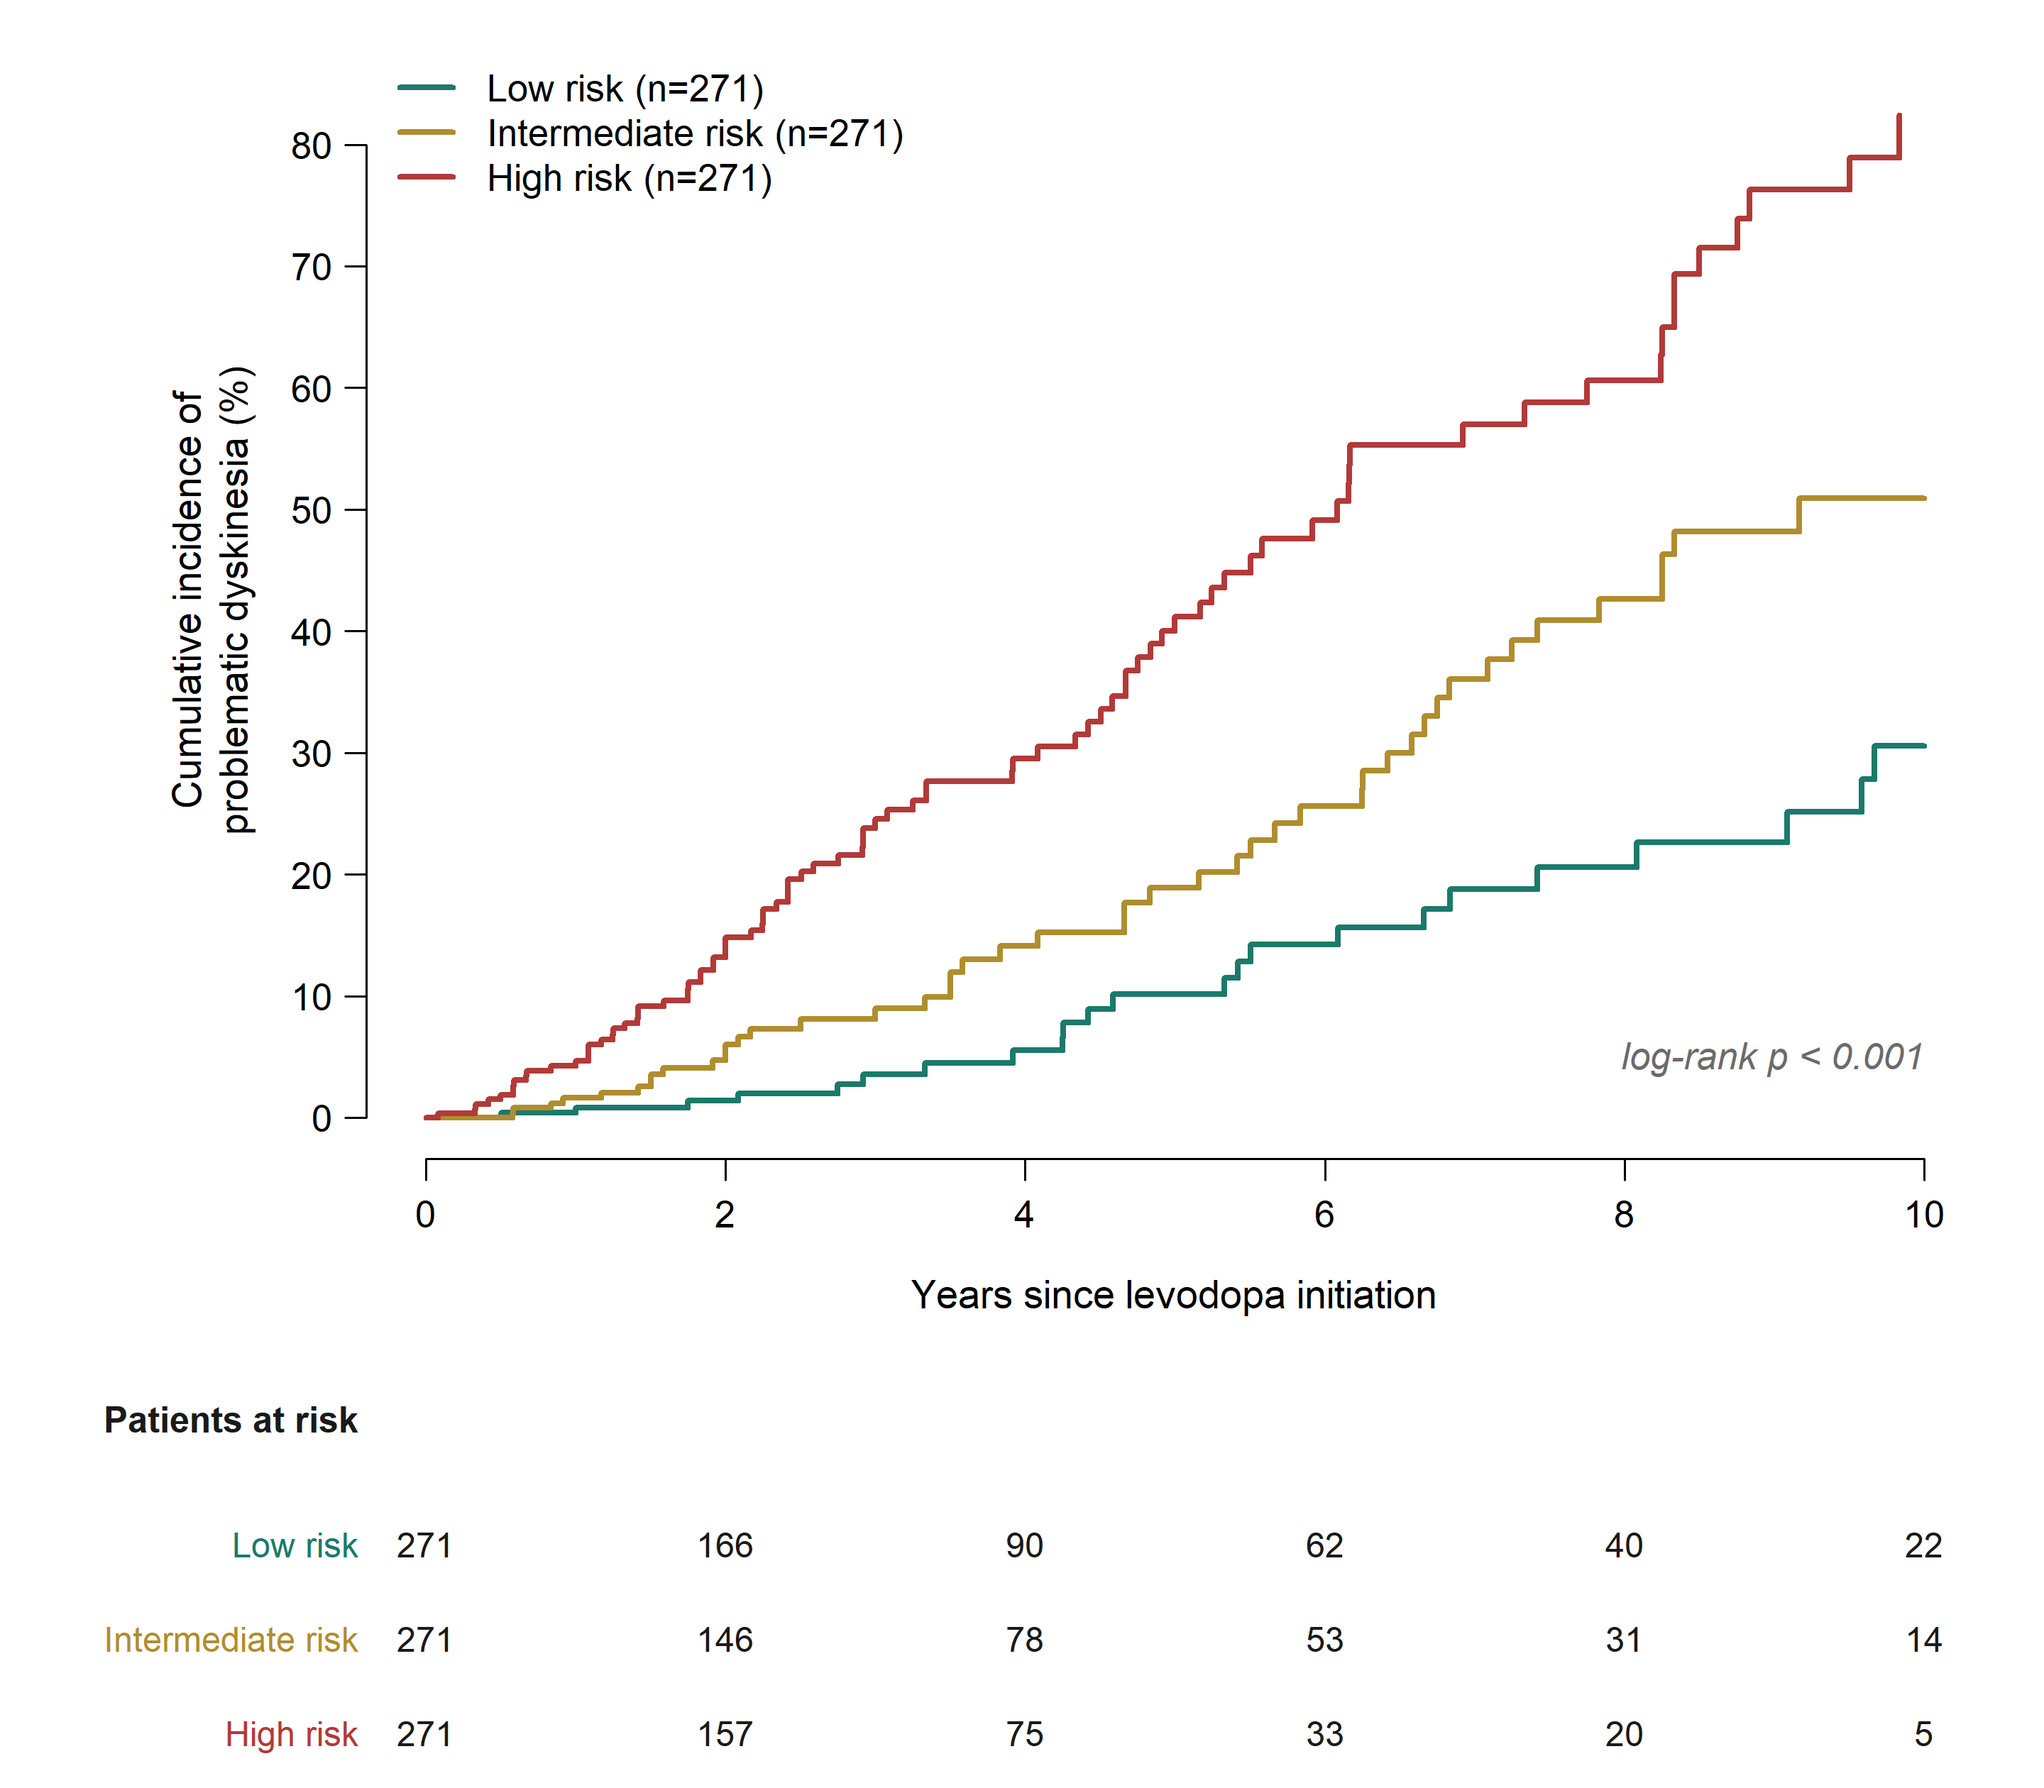
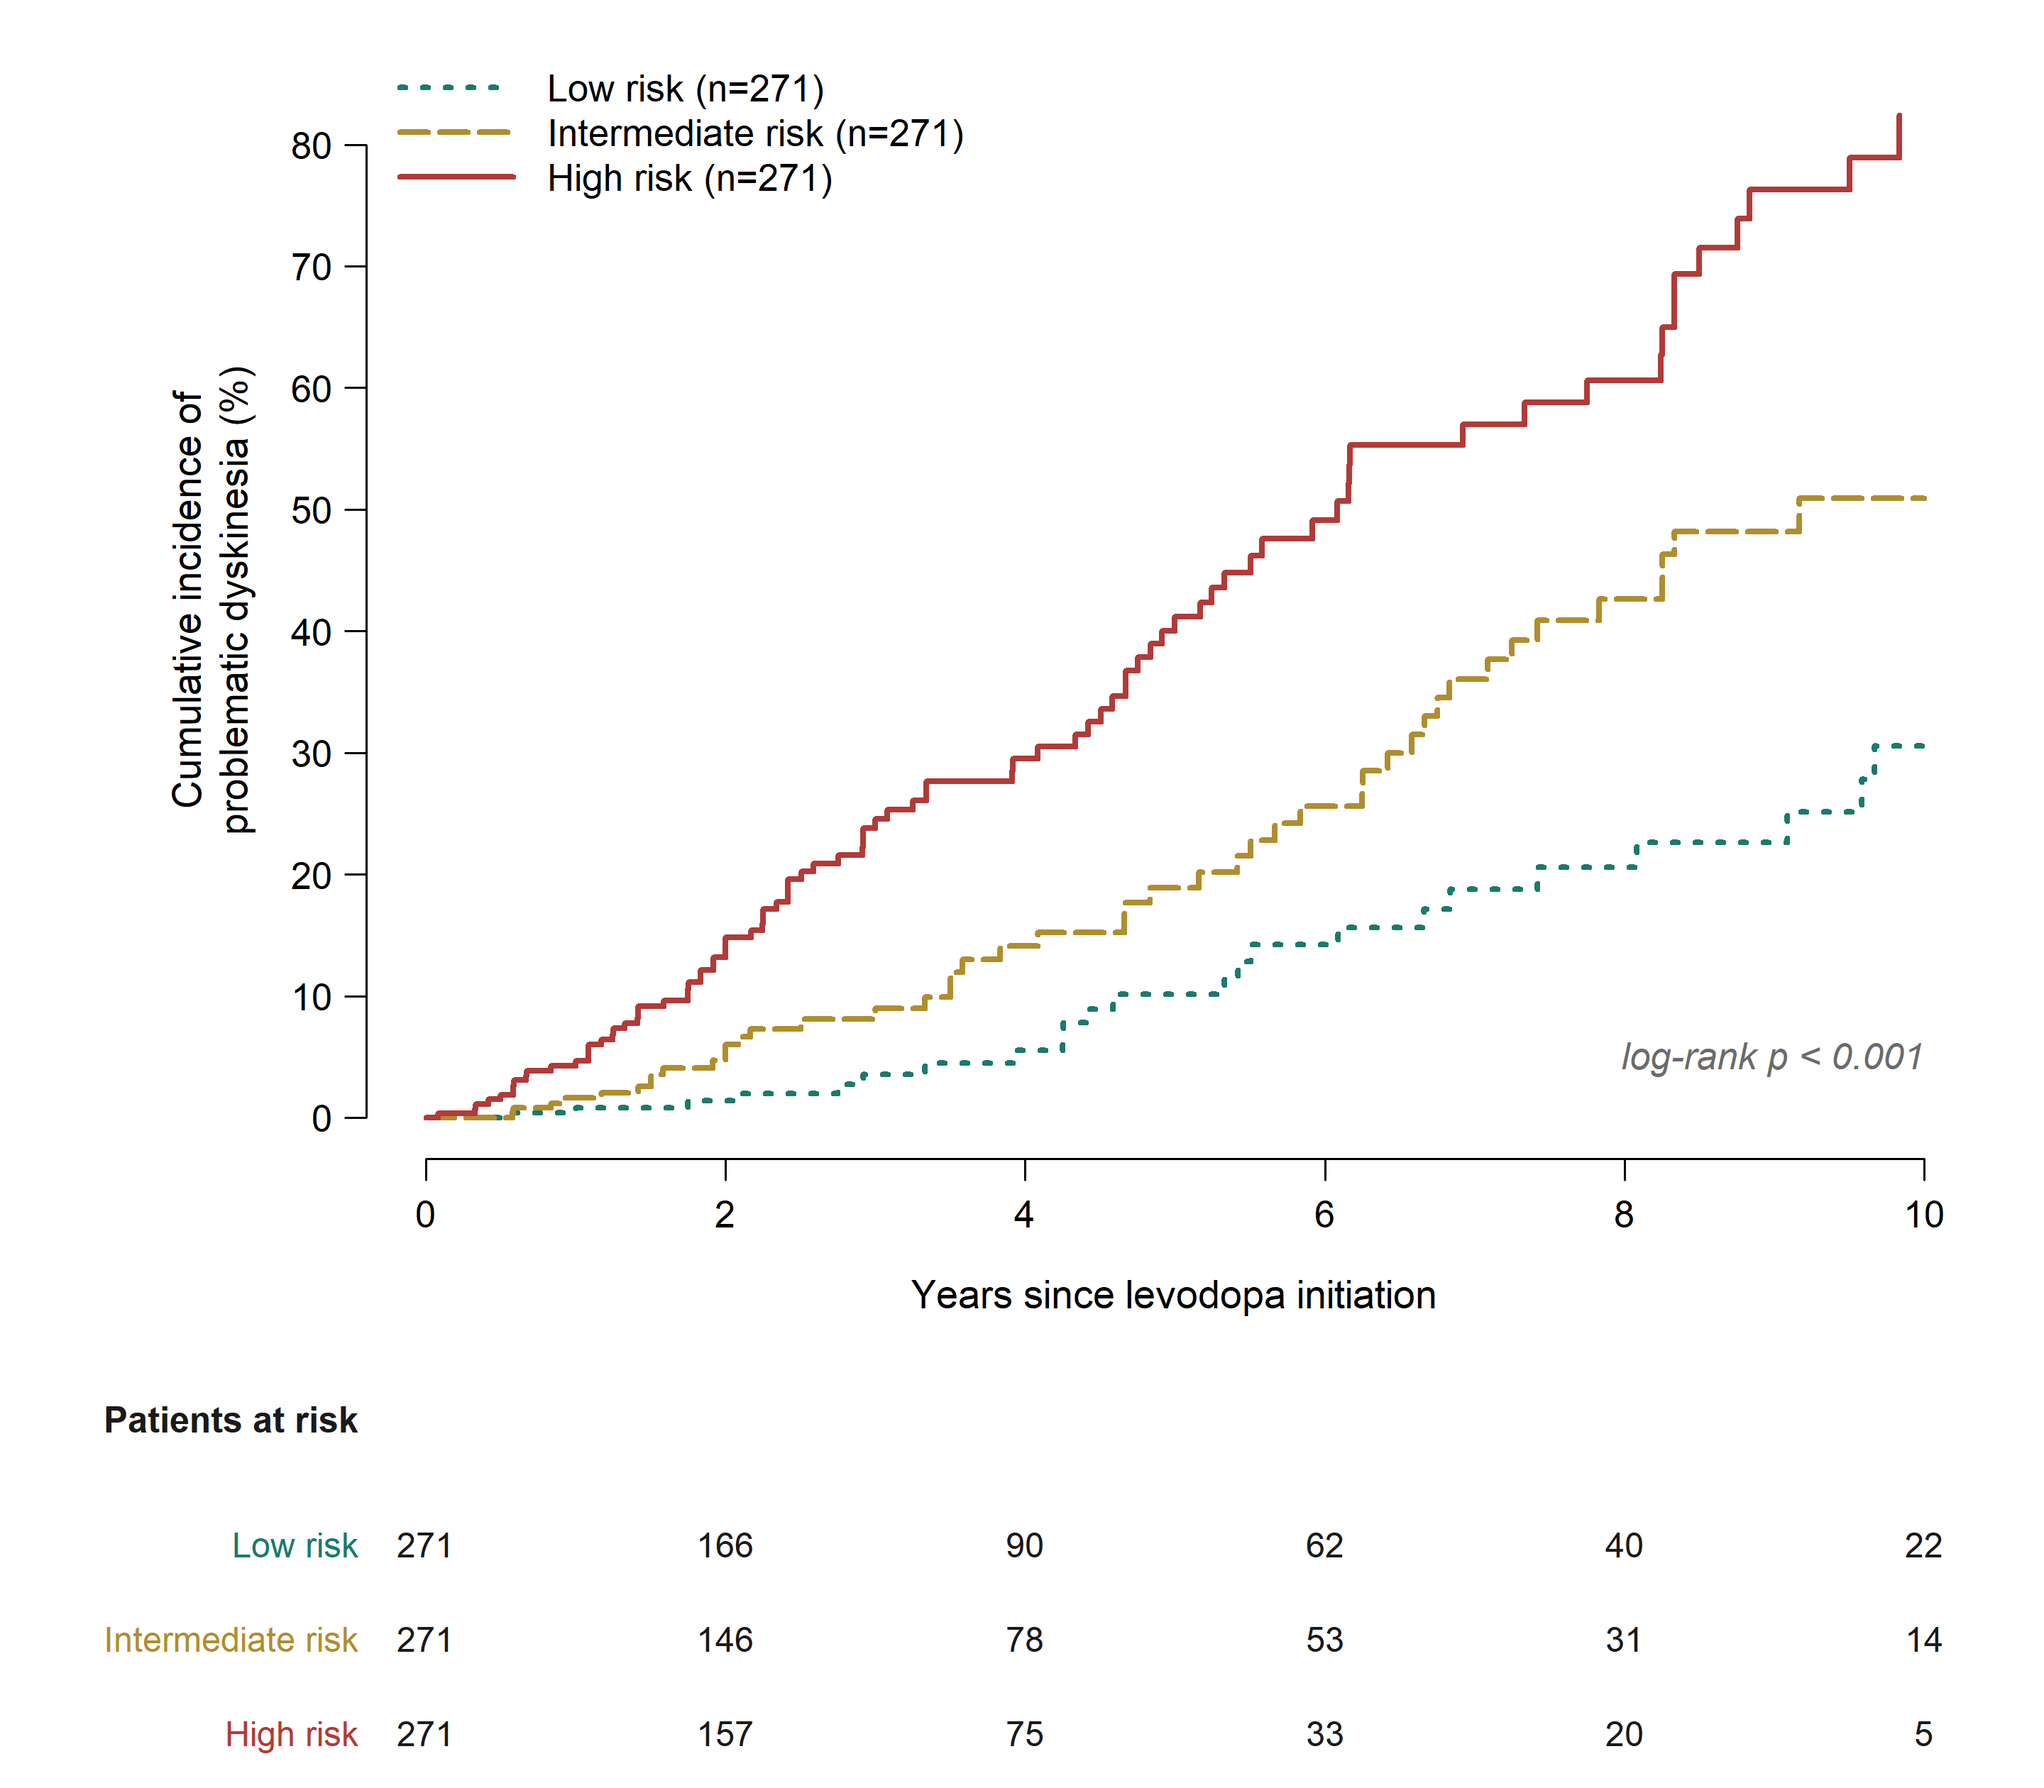
Give each risk tertile its own line pattern for greyscale print
The JMD prints in greyscale unless the authors pay for colour, and the
authors chose colour online only. In grey, the teal and red of the tertile
curves (Figure 2 of the base package, Figure 3 of the JMD one) became almost
the same tone. Each group now also has its own pattern: low risk dotted,
intermediate dashed, high risk solid, with longer key segments so the
pattern shows. Colours, curves and numbers at risk are unchanged; the base
package was rebuilt with 55_submission_files.py and only this figure changed.

Changed region(s): [[0.2188, 0.031, 0.4688, 0.1238]]

diff --git a/02_Codigo/README.md b/02_Codigo/README.md
@@ -119,7 +119,7 @@ Figures are written to `../03_Resultados/Figuras/` in PNG, SVG and PDF.
 
 | Script | O que faz |
 |---|---|
-| `figuras.R` | Figure 2 (incidência cumulativa por tercil) e Supplementary Figure S2 (curva de decisão em dois painéis), em PNG a 300 dpi, SVG e PDF. A Figure 1 é desenhada pelo `38_figure1_participant_flow.py`. Substitui os scripts 25 e 26, que apontavam para o layout antigo. A Figura S2 confere a redução por 1.000 contra o `tab34_decision_curve.json` antes de desenhar. Desde 17/11/2026: os números da tabela de pacientes em risco ficam embaixo de cada ano do eixo; na curva de decisão, a legenda fica acima do painel A e nomeia o sombreado (que antes era uma nota cortada por duas linhas), e o rótulo do ponto de 20% não encosta mais na curva; o PDF sai pelo `cairo_pdf`, porque o `pdf` troca o hífen por sinal de menos |
+| `figuras.R` | Figure 2 (incidência cumulativa por tercil) e Supplementary Figure S2 (curva de decisão em dois painéis), em PNG a 300 dpi, SVG e PDF. A Figure 1 é desenhada pelo `38_figure1_participant_flow.py`. Substitui os scripts 25 e 26, que apontavam para o layout antigo. A Figura S2 confere a redução por 1.000 contra o `tab34_decision_curve.json` antes de desenhar. Desde 17/11/2026: os números da tabela de pacientes em risco ficam embaixo de cada ano do eixo; cada tercil tem também seu próprio traço (contínuo, tracejado, pontilhado), para continuar legível na versão impressa em preto e branco do JMD; na curva de decisão, a legenda fica acima do painel A e nomeia o sombreado (que antes era uma nota cortada por duas linhas), e o rótulo do ponto de 20% não encosta mais na curva; o PDF sai pelo `cairo_pdf`, porque o `pdf` troca o hífen por sinal de menos |
 | `dose_sem_amantadina.R` | Linhas de tratamento da Table 1, com a dose dopaminérgica recalculada sem a amantadina |
 | `amantadina_pkmerz.R` | Reproduz o script 31 com e sem o PK-Merz na busca de fármacos, e imprime a conferência contra o `tab31_amantadine.json` |
 | `figuras_suplementares.R` | Supplementary Figure S1 (calibração interna em 5 anos) e S3 (comparação direta), em PNG a 300 dpi, SVG e PDF. Substitui os scripts 23 e 24, que apontavam para o layout antigo e vinham de análises que já não batem com o artigo. Confere a calibração contra o `tab32_internal_performance.json` e para com erro se divergir. Também desenha a `JMD_Figure2_calibration`, a mesma calibração como figura principal do pacote do JMD, só em azul e cinza; `Rscript figuras_suplementares.R JMD_Figure2_calibration` gera só ela, sem regravar as figuras do BASE O PDF sai pelo `cairo_pdf`, pelo mesmo motivo do `figuras.R` |
